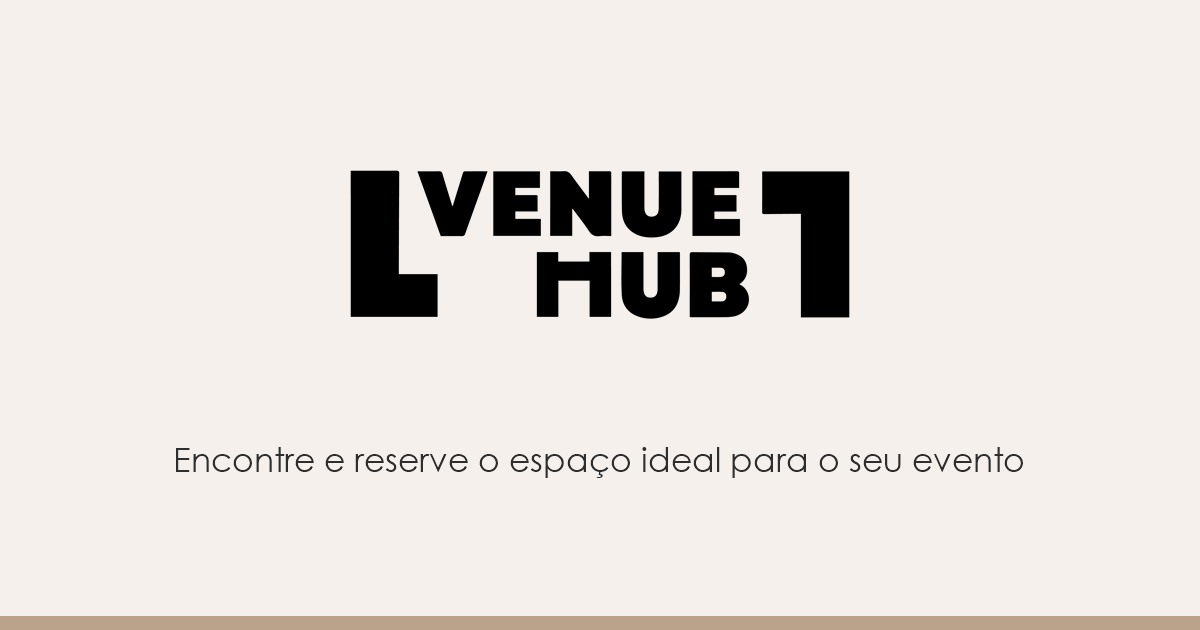
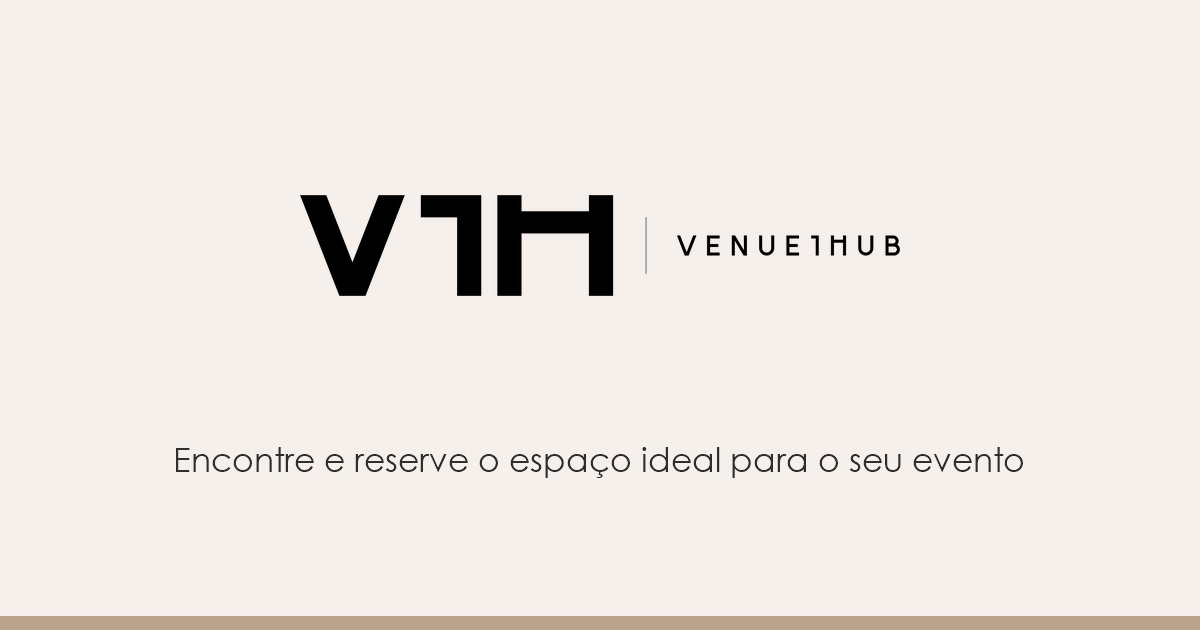
Pôr o logótipo novo na imagem de partilha e nos emails
As imagens que aparecem ao partilhar uma ligação do site ainda tinham o
logótipo antigo. E os emails da newsletter e da lista de espera apontavam para
um PNG que o build já não gerava (404): passa a existir em public/static/media,
no mesmo endereço, o que também compõe os emails já enviados.

Changed region(s): [[0.2467, 0.2714, 0.7708, 0.5127]]

diff --git a/server/api/newsletter.js b/server/api/newsletter.js
@@ -4,6 +4,7 @@ const { mailFrom, isEnglish, t, adminEmail: adminAddress } = require('../api-uti
 // O logótipo dos emails tem de ser um URL absoluto. Deriva do domínio
 // configurado em vez de estar escrito à mão: com o domínio novo, o valor fixo
 // devolvia uma imagem partida.
+// O ficheiro está em public/static/media, que o build copia sem lhe mudar o nome.
 const LOGO_URL = `${(process.env.REACT_APP_MARKETPLACE_ROOT_URL || '').replace(
   /\/$/,
   ''
@@ -47,7 +48,7 @@ module.exports = async (req, res) => {
         html: `
           <div style="font-family: Arial, sans-serif; max-width: 600px; margin: 0 auto; color: #2E2E2E;">
             <div style="background: #2E2E2E; padding: 32px 24px; text-align: center;">
-              <img src="${LOGO_URL}" alt="Venue1Hub" style="height: 48px;" />
+              <img src="${LOGO_URL}" alt="Venue1Hub" width="285" height="48" style="height: 48px;" />
             </div>
             <div style="padding: 40px 24px;">
               <h2 style="color: #2E2E2E; margin: 0 0 16px;">

diff --git a/server/api/waitlist.js b/server/api/waitlist.js
@@ -4,6 +4,7 @@ const { mailFrom, isEnglish, t, adminEmail: adminAddress } = require('../api-uti
 // O logótipo dos emails tem de ser um URL absoluto. Deriva do domínio
 // configurado em vez de estar escrito à mão: com o domínio novo, o valor fixo
 // devolvia uma imagem partida.
+// O ficheiro está em public/static/media, que o build copia sem lhe mudar o nome.
 const LOGO_URL = `${(process.env.REACT_APP_MARKETPLACE_ROOT_URL || '').replace(
   /\/$/,
   ''
@@ -88,7 +89,7 @@ module.exports = async (req, res) => {
         html: `
           <div style="font-family: Arial, sans-serif; max-width: 600px; margin: 0 auto; color: #2E2E2E;">
             <div style="background: #2E2E2E; padding: 32px 24px; text-align: center;">
-              <img src="${LOGO_URL}" alt="Venue1Hub" style="height: 48px;" />
+              <img src="${LOGO_URL}" alt="Venue1Hub" width="285" height="48" style="height: 48px;" />
             </div>
             <div style="padding: 40px 24px;">
               <h2 style="color: #2E2E2E; margin: 0 0 8px;">
